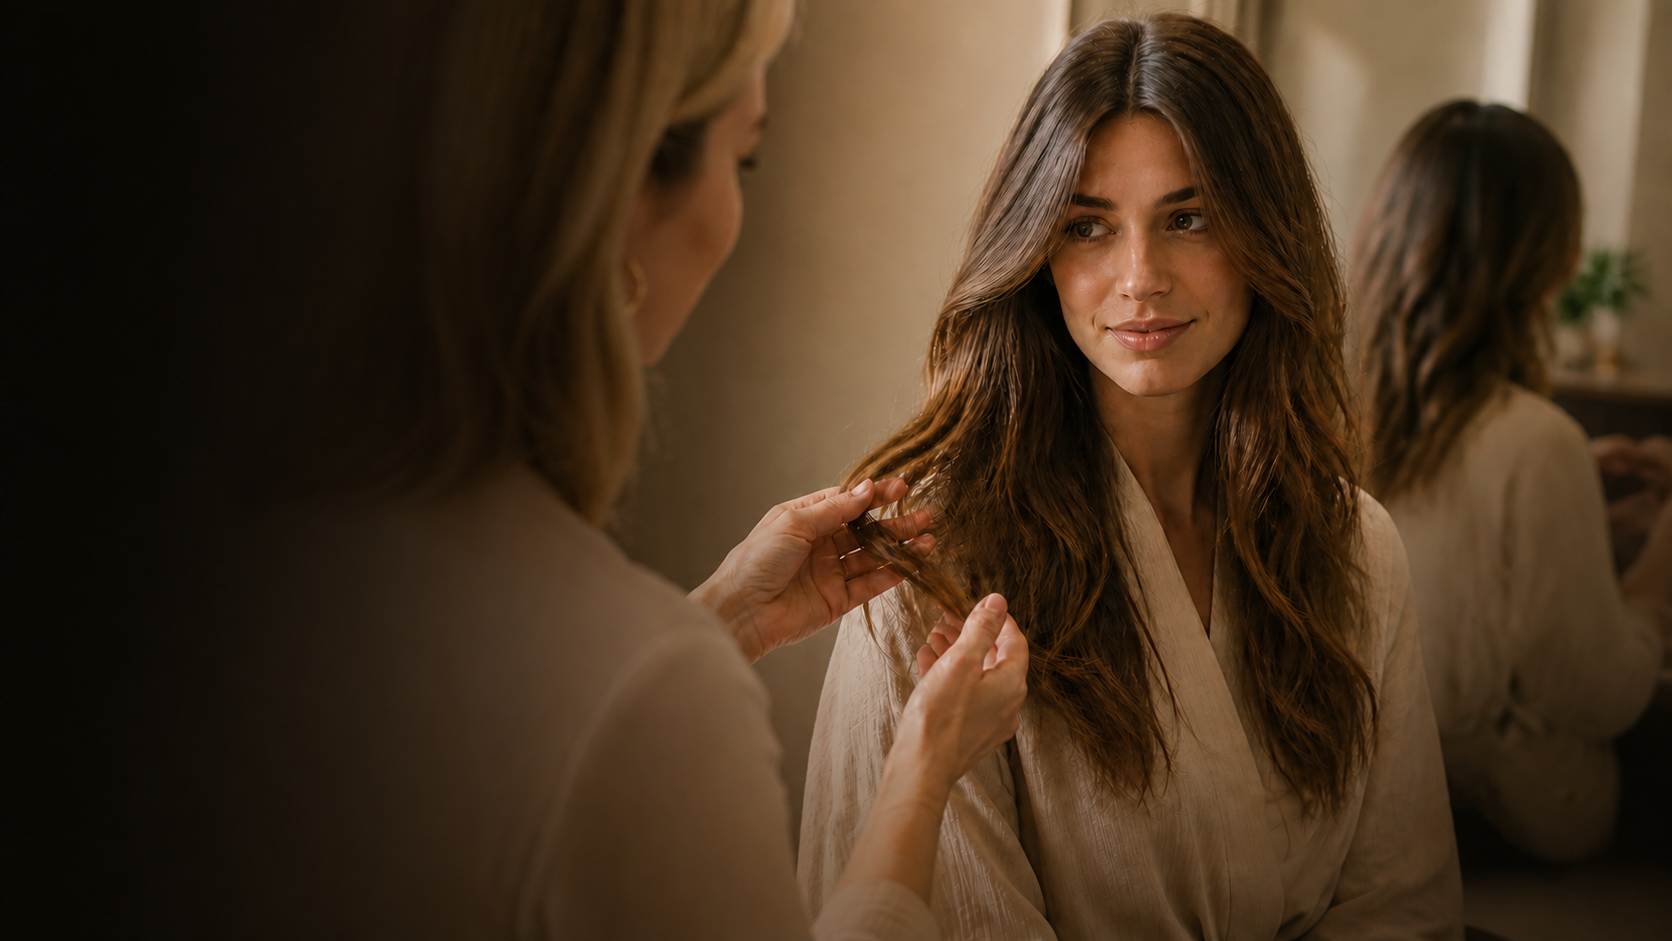
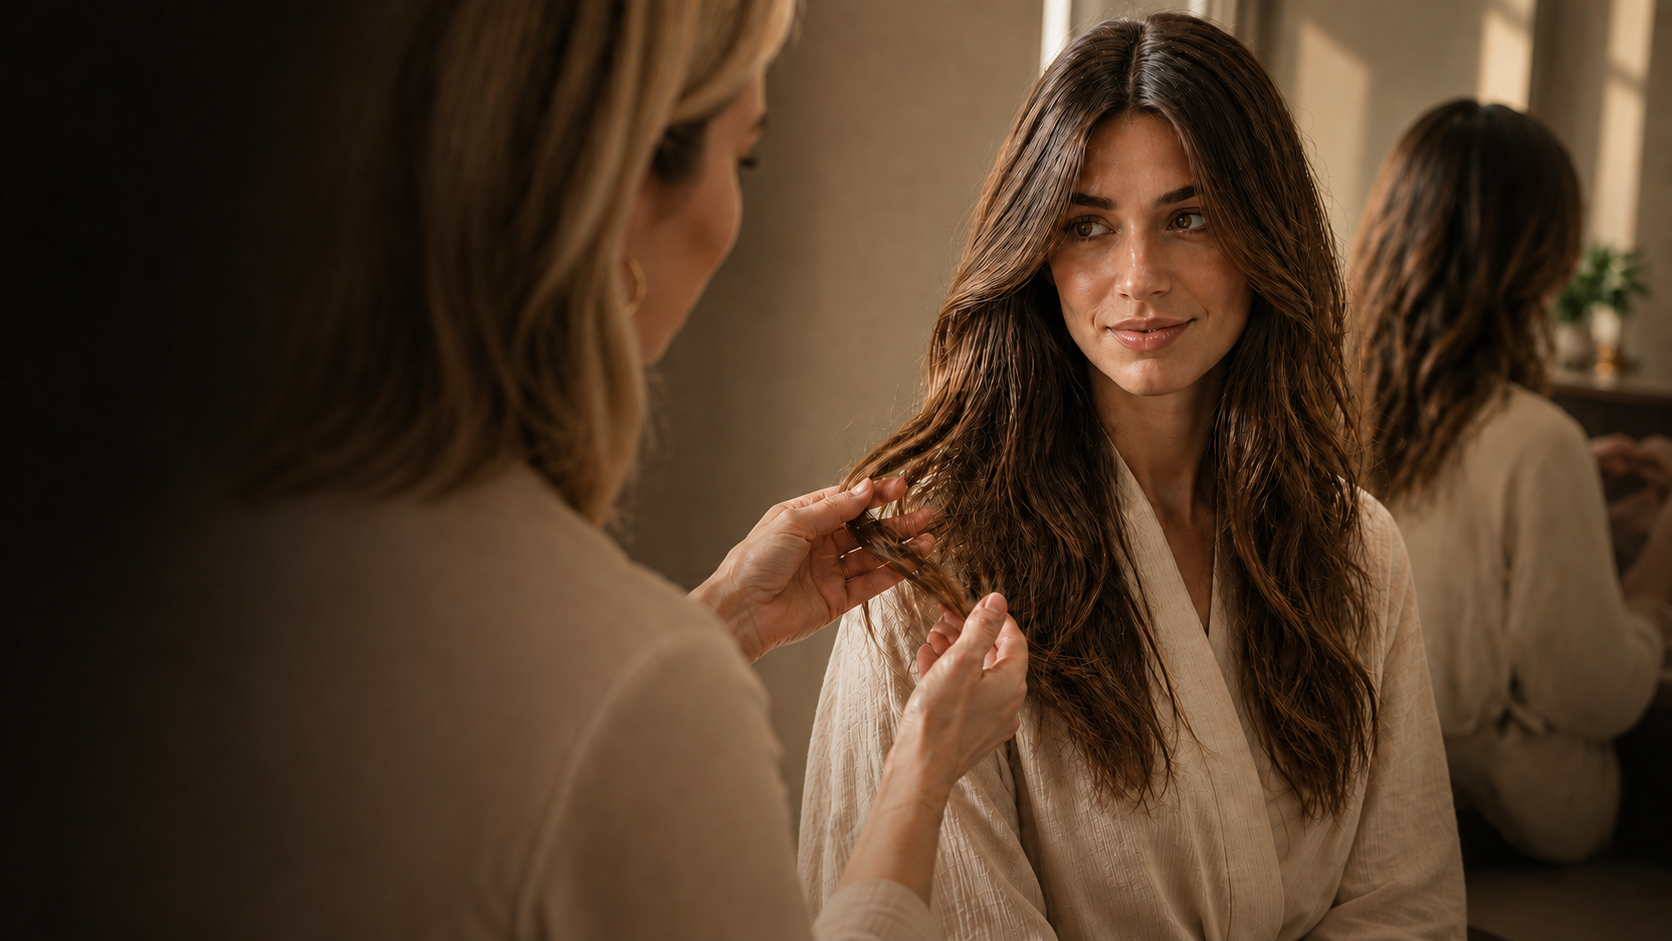
update final landing page with some asset models

diff --git a/app/sections/testimonial.tsx b/app/sections/testimonial.tsx
@@ -5,8 +5,7 @@ import { ArrowLeft, ArrowRight } from "lucide-react";
 import { useState } from "react";
 
 type TestimonialVisual = {
-  desktopSrc: string;
-  mobileSrc: string;
+  src: string;
   alt: string;
   imageClassName: string;
 };
@@ -21,24 +20,27 @@ type TestimonialVoice = {
 };
 
 const claraVisual: TestimonialVisual = {
-  desktopSrc: "/atelier-elan/testimonial-section/testimonial-d-client-portrait-4k.jpg",
-  mobileSrc: "/atelier-elan/testimonial-section/testimonial-d-client-portrait.png",
-  alt: "Clara seated beside a mirror after a considered salon consultation.",
-  imageClassName: "object-[52%_42%]",
+  src: "/atelier-elan/testimonial-section/testimonial-clara-over-shoulder.png",
+  alt: "Clara looks back over her shoulder after her salon consultation.",
+  imageClassName: "object-[48%_42%]",
 };
 
-const maraWideVisual: TestimonialVisual = {
-  desktopSrc: "/atelier-elan/testimonial-section/testimonial-e-dark-background-4k.jpg",
-  mobileSrc: "/atelier-elan/testimonial-section/testimonial-e-dark-background-mobile-4k.jpg",
-  alt: "Mara smiling at her reflection in a dark private atelier mirror.",
-  imageClassName: "object-[67%_50%]",
+const maraVisual: TestimonialVisual = {
+  src: "/atelier-elan/testimonial-section/testimonial-mara-hair-detail.png",
+  alt: "Mara studies the movement at the ends of her finished hair.",
+  imageClassName: "object-[45%_42%]",
 };
 
-const maraCompactVisual: TestimonialVisual = {
-  desktopSrc: "/atelier-elan/testimonial-section/testimonial-e-dark-background.png",
-  mobileSrc: "/atelier-elan/testimonial-section/testimonial-e-dark-background-mobile.png",
-  alt: "A client studies her finished hair in a quiet mirror reflection.",
-  imageClassName: "object-[66%_50%]",
+const jessVisual: TestimonialVisual = {
+  src: "/atelier-elan/testimonial-section/testimonial-jess-relaxed.png",
+  alt: "Jess relaxes with one hand beneath her newly shaped hair.",
+  imageClassName: "object-[55%_42%]",
+};
+
+const noaVisual: TestimonialVisual = {
+  src: "/atelier-elan/testimonial-section/testimonial-noa-hair-over-shoulder.png",
+  alt: "Noa gathers her layered hair over one shoulder in the atelier.",
+  imageClassName: "object-[50%_42%]",
 };
 
 const testimonialVoices: TestimonialVoice[] = [
@@ -58,7 +60,7 @@ const testimonialVoices: TestimonialVoice[] = [
       "I recognised myself immediately--only lighter, more considered, and completely at ease.",
     client: "Mara S. -- Colour Client",
     service: "Dimensional Colour / First Visit",
-    visual: maraWideVisual,
+    visual: maraVisual,
   },
   {
     number: "09",
@@ -67,7 +69,7 @@ const testimonialVoices: TestimonialVoice[] = [
       "Soft movement, better texture, and a shape that grows out beautifully.",
     client: "Jess L. -- Atelier Client",
     service: "Lived-In Blend / Signature Cut",
-    visual: claraVisual,
+    visual: jessVisual,
   },
   {
     number: "10",
@@ -76,36 +78,26 @@ const testimonialVoices: TestimonialVoice[] = [
       "The result felt refined without feeling unfamiliar. I left with ease I could actually keep.",
     client: "Noa R. -- Returning Client",
     service: "Refinement / Seasonal Shape",
-    visual: maraCompactVisual,
+    visual: noaVisual,
   },
 ];
 
 function ResponsiveImage({
   visual,
-  priority = false,
+  preload = false,
 }: {
   visual: TestimonialVisual;
-  priority?: boolean;
+  preload?: boolean;
 }) {
   return (
-    <>
-      <Image
-        src={visual.mobileSrc}
-        alt={visual.alt}
-        fill
-        priority={priority}
-        sizes="(min-width: 1024px) 0px, 100vw"
-        className={`object-cover lg:hidden ${visual.imageClassName}`}
-      />
-      <Image
-        src={visual.desktopSrc}
-        alt={visual.alt}
-        fill
-        priority={priority}
-        sizes="(min-width: 1536px) 31vw, (min-width: 1280px) 30vw, (min-width: 1024px) 29vw, 0px"
-        className={`hidden object-cover lg:block ${visual.imageClassName}`}
-      />
-    </>
+    <Image
+      src={visual.src}
+      alt={visual.alt}
+      fill
+      preload={preload}
+      sizes="(min-width: 1536px) 31vw, (min-width: 1280px) 30vw, (min-width: 1024px) 29vw, 100vw"
+      className={`object-cover ${visual.imageClassName}`}
+    />
   );
 }
 
@@ -176,7 +168,7 @@ export function Testimonial() {
           data-testimonial-panel="active-image"
           className="relative order-1 aspect-[0.75/1] overflow-hidden bg-[var(--color-espresso-800)] sm:aspect-[0.86/1] md:max-h-[44rem] lg:order-none lg:my-[7.4vh] lg:aspect-auto lg:h-[85.2vh] lg:max-h-none"
         >
-          <ResponsiveImage visual={activeVoice.visual} priority />
+          <ResponsiveImage visual={activeVoice.visual} preload />
           <div
             aria-hidden="true"
             className="absolute inset-0 bg-[linear-gradient(180deg,transparent_40%,rgb(14_14_13_/_0.16)_100%)]"
@@ -194,7 +186,7 @@ export function Testimonial() {
           <h2
             id="testimonial-title"
             aria-live="polite"
-            className="mt-7 max-w-[12ch] font-sans text-[3.35rem] font-black uppercase leading-[0.86] tracking-normal text-[var(--color-ink-950)] sm:text-[4.55rem] md:max-w-[14ch] md:text-[5.25rem] lg:mt-8 lg:max-w-none lg:text-[3.8rem] xl:text-[4.45rem] 2xl:text-[4.95rem]"
+            className="mt-7 max-w-[12ch] font-sans text-[2.35rem] font-black uppercase leading-[0.86] tracking-normal text-[var(--color-ink-950)] sm:text-[4.55rem] md:max-w-[14ch] md:text-[3.25rem] lg:mt-8 lg:max-w-none lg:text-[1.8rem] xl:text-[2.45rem] 2xl:text-[2.95rem]"
           >
             <span className="block">{activeVoice.titleLines[0]}</span>
             <span className="block">{activeVoice.titleLines[1]}</span>
@@ -203,7 +195,7 @@ export function Testimonial() {
           <figure className="mt-7 md:mt-9 lg:mt-7">
             <blockquote
               key={activeVoice.quote}
-              className="max-w-[18ch] font-serif text-[2.25rem] italic leading-[1.05] tracking-normal text-[var(--color-ink-950)] sm:text-[2.95rem] md:max-w-[19ch] md:text-[3.45rem] lg:max-w-[20ch] lg:text-[2.25rem] xl:text-[2.72rem] 2xl:text-[3.05rem]"
+              className="max-w-[18ch] font-serif text-[1.25rem] italic leading-[1.05] tracking-normal text-[var(--color-ink-950)] sm:text-[1.95rem] md:max-w-[19ch] md:text-[2.45rem] lg:max-w-[20ch] lg:text-[1.25rem] xl:text-[1.72rem] 2xl:text-[3.05rem]"
             >
               <span aria-hidden="true">&ldquo;</span>
               {activeVoice.quote}

diff --git a/app/sections/gallery.tsx b/app/sections/gallery.tsx
@@ -5,46 +5,41 @@ type GalleryFrame = {
   src: string;
   alt: string;
   frameClassName: string;
-  imageClassName: string;
   sizes: string;
 };
 
 const galleryFrames: GalleryFrame[] = [
   {
     number: "01",
-    src: "/atelier-elan/gallery-section/model-01.png",
+    src: "/atelier-elan/gallery-section/model-01-hd.png",
     alt: "A woman in cream fabric with warm light falling across her hair.",
     frameClassName:
-      "h-[24rem] w-[13rem] md:h-[29rem] md:w-[15rem] lg:h-[31rem] lg:w-[15.25rem] xl:h-[35rem] xl:w-[17rem]",
-    imageClassName: "object-[58%_50%]",
-    sizes: "(min-width: 1280px) 17rem, (min-width: 1024px) 15.25rem, (min-width: 768px) 15rem, 100vw",
+      "h-[24rem] w-[16rem] md:h-[29rem] md:w-[19.33rem] lg:h-[31rem] lg:w-[20.67rem] xl:h-[35rem] xl:w-[23.33rem]",
+    sizes: "(min-width: 1280px) 23.33rem, (min-width: 1024px) 20.67rem, (min-width: 768px) 19.33rem, 100vw",
   },
   {
     number: "02",
-    src: "/atelier-elan/gallery-section/model-02.png",
+    src: "/atelier-elan/gallery-section/model-02-hd.png",
     alt: "A quiet profile portrait showing soft dark hair and natural texture.",
     frameClassName:
-      "h-[24rem] w-[15rem] md:h-[29rem] md:w-[18rem] lg:h-[31rem] lg:w-[18.75rem] xl:h-[35rem] xl:w-[21rem]",
-    imageClassName: "object-[42%_50%]",
-    sizes: "(min-width: 1280px) 21rem, (min-width: 1024px) 18.75rem, (min-width: 768px) 18rem, 100vw",
+      "h-[24rem] w-[16rem] md:h-[29rem] md:w-[19.33rem] lg:h-[31rem] lg:w-[20.67rem] xl:h-[35rem] xl:w-[23.33rem]",
+    sizes: "(min-width: 1280px) 23.33rem, (min-width: 1024px) 20.67rem, (min-width: 768px) 19.33rem, 100vw",
   },
   {
     number: "03",
-    src: "/atelier-elan/gallery-section/model-03.png",
+    src: "/atelier-elan/gallery-section/model-03-hd.png",
     alt: "A close editorial portrait with short textured hair and direct gaze.",
     frameClassName:
-      "h-[24rem] w-[19rem] md:h-[29rem] md:w-[24rem] lg:h-[31rem] lg:w-[25rem] xl:h-[35rem] xl:w-[28rem]",
-    imageClassName: "object-[50%_38%]",
-    sizes: "(min-width: 1280px) 28rem, (min-width: 1024px) 25rem, (min-width: 768px) 24rem, 100vw",
+      "h-[24rem] w-[16rem] md:h-[29rem] md:w-[19.33rem] lg:h-[31rem] lg:w-[20.67rem] xl:h-[35rem] xl:w-[23.33rem]",
+    sizes: "(min-width: 1280px) 23.33rem, (min-width: 1024px) 20.67rem, (min-width: 768px) 19.33rem, 100vw",
   },
   {
     number: "04",
-    src: "/atelier-elan/gallery-section/model-04.png",
+    src: "/atelier-elan/gallery-section/model-04-hd.png",
     alt: "A blonde client portrait framed by loose textured hair.",
     frameClassName:
-      "mt-16 h-[18rem] w-[9rem] md:h-[21rem] md:w-[10rem] lg:h-[22rem] lg:w-[10.5rem] xl:h-[25rem] xl:w-[12rem]",
-    imageClassName: "object-[52%_44%]",
-    sizes: "(min-width: 1280px) 12rem, (min-width: 1024px) 10.5rem, (min-width: 768px) 10rem, 78vw",
+      "h-[24rem] w-[16rem] md:h-[29rem] md:w-[19.33rem] lg:h-[31rem] lg:w-[20.67rem] xl:h-[35rem] xl:w-[23.33rem]",
+    sizes: "(min-width: 1280px) 23.33rem, (min-width: 1024px) 20.67rem, (min-width: 768px) 19.33rem, 100vw",
   },
 ];
 
@@ -123,7 +118,7 @@ export function Gallery() {
                       alt={frame.alt}
                       fill
                       sizes={frame.sizes}
-                      className={`object-cover transition-transform duration-700 ease-out group-hover:scale-[1.025] ${frame.imageClassName}`}
+                      className="object-contain transition-[filter] duration-500 ease-out group-hover:brightness-105"
                     />
                     <div
                       aria-hidden="true"
@@ -143,7 +138,7 @@ export function Gallery() {
                 </p>
                 <figure className="relative h-[22rem] w-[10.5rem] overflow-hidden bg-[var(--color-stone-300)] xl:h-[25rem] xl:w-[12rem]">
                   <Image
-                    src="/atelier-elan/about-section/hair-texture.png"
+                    src="/atelier-elan/gallery-section/hair-showing-03.png"
                     alt="Close detail of hair texture catching a narrow line of light."
                     fill
                     sizes="(min-width: 1280px) 12rem, 10.5rem"
@@ -178,10 +173,6 @@ export function Gallery() {
               </li>
             </ol>
 
-            <div
-              aria-hidden="true"
-              className="pointer-events-none absolute left-0 right-0 top-[76vh] z-20 h-[2px] bg-[var(--accent-primary)]"
-            />
           </div>
 
           <ol className="relative z-10 grid gap-8 px-5 py-14 sm:px-8 md:grid-cols-2 md:px-10 lg:hidden">
@@ -194,13 +185,13 @@ export function Gallery() {
                     className="h-px w-6 bg-[rgb(251_248_241_/_0.72)]"
                   />
                 </p>
-                <figure className="relative aspect-[4/5] overflow-hidden bg-[var(--color-espresso-800)]">
+                <figure className="relative aspect-[2/3] overflow-hidden bg-[var(--color-espresso-800)]">
                   <Image
                     src={frame.src}
                     alt={frame.alt}
                     fill
                     sizes="(min-width: 768px) 50vw, 100vw"
-                    className={`object-cover ${frame.imageClassName}`}
+                    className="object-contain"
                   />
                 </figure>
               </li>

diff --git a/app/sections/hero.tsx b/app/sections/hero.tsx
@@ -1,7 +1,13 @@
 import Image from "next/image";
 import { ArrowDown, ArrowRight } from "lucide-react";
 
-const navItems = ["About", "Services", "Artistry", "Journal", "Studio"];
+const navItems = [
+  { label: "About", href: "#about"},
+  { label: "Services", href: "#services"},
+  { label: "Experience", href: "#studio" },
+  { label: "Gallery", href: "#gallery" },
+  { label: "Booking", href: "#booking" },
+];
 
 export function Hero() {
   return (
@@ -23,11 +29,11 @@ export function Hero() {
         >
           {navItems.map((item) => (
             <a
-              key={item}
-              href={`#${item.toLowerCase()}`}
+              key={item.href}
+              href={item.href}
               className="outline-none transition-colors duration-200 hover:text-[var(--text-muted)] focus-visible:ring-[var(--focus-ring-width)] focus-visible:ring-[var(--interactive-focus)] focus-visible:ring-offset-[var(--focus-ring-offset)] focus-visible:ring-offset-[var(--background-primary)]"
             >
-              {item}
+              {item.label}
             </a>
           ))}
         </nav>
@@ -54,7 +60,7 @@ export function Hero() {
         <div className="absolute inset-y-0 left-0 right-0 bg-[var(--color-ink-950)] md:left-14 lg:left-[5.375rem]">
         <div className="absolute inset-y-0 right-0 w-full md:w-[66%] lg:w-[58%] xl:w-[55%]">
           <Image
-            src="/atelier-elan/hero-section/hero-model-wide.png"
+            src="/atelier-elan/hero-section/hero-model-landscape.png"
             alt="A client with softly finished dark hair in warm atelier light."
             fill
             preload
@@ -115,16 +121,7 @@ export function Hero() {
                 </div>
               </div>
 
-              <figure className="mt-8 hidden aspect-[8/5] overflow-hidden border border-[rgb(251_248_241_/_0.72)] bg-[var(--color-espresso-800)] lg:mt-0 lg:block">
-                <Image
-                  src="/atelier-elan/hero-section/hero-craft-detail.png"
-                  alt="Hands guide scissors and comb through damp hair during a precise cut."
-                  width={900}
-                  height={675}
-                  sizes="(min-width: 1440px) 21rem, 19rem"
-                  className="h-full w-full object-cover object-[48%_48%]"
-                />
-              </figure>
+              
             </div>
           </div>
         </div>

diff --git a/app/sections/footer.tsx b/app/sections/footer.tsx
@@ -44,7 +44,7 @@ export function Footer() {
               <p className="font-mono text-xs font-medium uppercase leading-none tracking-normal text-[rgb(251_248_241_/_0.72)] md:text-sm">
                 Hours
               </p>
-              <dl className="mt-6 space-y-3 font-mono text-sm font-medium uppercase leading-none tracking-normal text-[rgb(251_248_241_/_0.94)] sm:text-base md:text-lg">
+              <dl className="mt-6 space-y-3 font-mono text-sm font-medium uppercase leading-none tracking-normal text-[rgb(251_248_241_/_0.94)] sm:text-base md:text-md">
                 <div className="flex gap-5">
                   <dt>Tue-Fri</dt>
                   <dd>10:00-19:00</dd>
@@ -60,7 +60,7 @@ export function Footer() {
               <p className="font-mono text-xs font-medium uppercase leading-none tracking-normal text-[rgb(251_248_241_/_0.72)] md:text-sm">
                 Contact
               </p>
-              <address className="mt-6 space-y-3 font-mono text-sm font-medium uppercase not-italic leading-none tracking-normal text-[rgb(251_248_241_/_0.94)] sm:text-base md:text-lg">
+              <address className="mt-6 space-y-3 font-mono text-sm font-medium uppercase not-italic leading-none tracking-normal text-[rgb(251_248_241_/_0.94)] sm:text-base md:text-md">
                 <a
                   href="tel:+33184802418"
                   className="block w-max transition-opacity hover:opacity-70 focus-visible:outline focus-visible:outline-[var(--focus-ring-width)] focus-visible:outline-offset-[var(--focus-ring-offset)] focus-visible:outline-[var(--accent-primary)]"
@@ -164,9 +164,9 @@ export function Footer() {
 
         <p
           aria-label="Atelier Elan"
-          className="break-words font-sans text-[4rem] font-black uppercase leading-[0.76] tracking-normal text-[rgb(251_248_241_/_0.96)] sm:text-[6.4rem] md:text-[8.8rem] lg:whitespace-nowrap lg:text-[10.2rem] xl:text-[12.2rem] 2xl:text-[13.7rem]"
+          className="break-words font-sans text-[4rem] font-black uppercase leading-[0.76] tracking-normal text-[rgb(251_248_241_/_0.96)] sm:text-[6.4rem] md:text-[8.8rem] lg:whitespace-nowrap lg:text-[8.2rem] xl:text-[10.2rem] 2xl:text-[13.7rem]"
         >
-          Atelier Elan
+          ATELIER ÉLAN
         </p>
       </div>
     </footer>

diff --git a/app/sections/booking.tsx b/app/sections/booking.tsx
@@ -64,10 +64,10 @@ export function Booking() {
             <div className="mt-18 max-w-[44rem] sm:mt-20 md:mt-24 lg:mt-[15vh] lg:max-w-[58rem]">
               <h2
                 id="booking-title"
-                className="font-sans text-[3.35rem] font-black uppercase leading-[0.82] tracking-normal text-[var(--text-inverse)] sm:text-[6rem] md:text-[7.5rem] lg:text-[6.5rem] xl:text-[8.1rem] 2xl:text-[9.5rem]"
+                className="font-sans text-[3.35rem] font-black uppercase leading-[0.82] tracking-normal text-[var(--text-inverse)] sm:text-[6rem] md:text-[7.5rem] lg:text-[8.5rem] xl:text-[7.1rem] 2xl:text-[9.5rem]"
               >
                 <span className="block">When You&apos;re</span>
-                <span className="mt-1 block font-serif text-[4.45rem] font-normal italic leading-[0.78] normal-case sm:text-[7.5rem] md:text-[9.4rem] lg:text-[8.3rem] xl:text-[10.8rem] 2xl:text-[12.8rem]">
+                <span className="mt-1 block font-serif text-[4.45rem] font-normal italic leading-[0.78] normal-case sm:text-[7.5rem] md:text-[9.4rem] lg:text-[8.3rem] xl:text-[6.8rem] 2xl:text-[8.8rem]">
                   Ready.
                 </span>
               </h2>

diff --git a/app/sections/service.tsx b/app/sections/service.tsx
@@ -134,16 +134,6 @@ export function Service() {
               of Care.
             </span>
           </h3>
-
-          <figure className="absolute bottom-[7%] left-5 z-10 aspect-[0.34] w-[28%] max-w-[10rem] overflow-hidden bg-[var(--color-espresso-800)] sm:left-10 sm:w-[25%] sm:max-w-[12rem] lg:bottom-auto lg:left-0 lg:top-[29%] lg:aspect-[0.28] lg:w-[clamp(6.5rem,10.2vw,10rem)] lg:max-w-none lg:-translate-x-[60%]">
-            <Image
-              src="/atelier-elan/service-section/hair-part-detail.png"
-              alt="Close detail of a precise section through wet dark hair."
-              fill
-              sizes="(min-width: 1024px) 10vw, 28vw"
-              className="object-cover"
-            />
-          </figure>
         </div>
       </div>
     </section>

diff --git a/app/sections/about.tsx b/app/sections/about.tsx
@@ -108,7 +108,7 @@ export function About() {
         <div className="relative lg:col-span-5 lg:flex lg:min-h-[calc(100dvh-7rem)] lg:items-center lg:justify-end">
           <figure className="relative mx-auto aspect-[1190/1322] w-full overflow-hidden bg-[var(--color-espresso-800)] sm:max-w-[38rem] lg:mx-0 lg:w-[min(100%,42rem)] min-[90rem]:w-[min(100%,46rem)]">
             <Image
-              src="/atelier-elan/about-section/craft-continuous.png"
+              src="/atelier-elan/about-section/hair-cut.png"
               alt="A stylist studies wet hair with a comb during a precise consultation."
               fill
               sizes="(min-width: 1440px) 41vw, (min-width: 1024px) 39vw, (min-width: 640px) 38rem, 100vw"

diff --git a/app/sections/experience.tsx b/app/sections/experience.tsx
@@ -38,14 +38,14 @@ export function Experience() {
     >
       <div aria-hidden="true" className="absolute inset-0 z-0">
         <Image
-          src="/atelier-elan/experience-section/experience-background-mobile-4k.jpg"
+          src="/atelier-elan/experience-section/experience-background-mobile.png"
           alt=""
           fill
           sizes="100vw"
           className="object-cover object-[54%_center] lg:hidden"
         />
         <Image
-          src="/atelier-elan/experience-section/experience-background-large-4k.jpg"
+          src="/atelier-elan/experience-section/experience-model-a-large.png"
           alt=""
           fill
           sizes="100vw"
